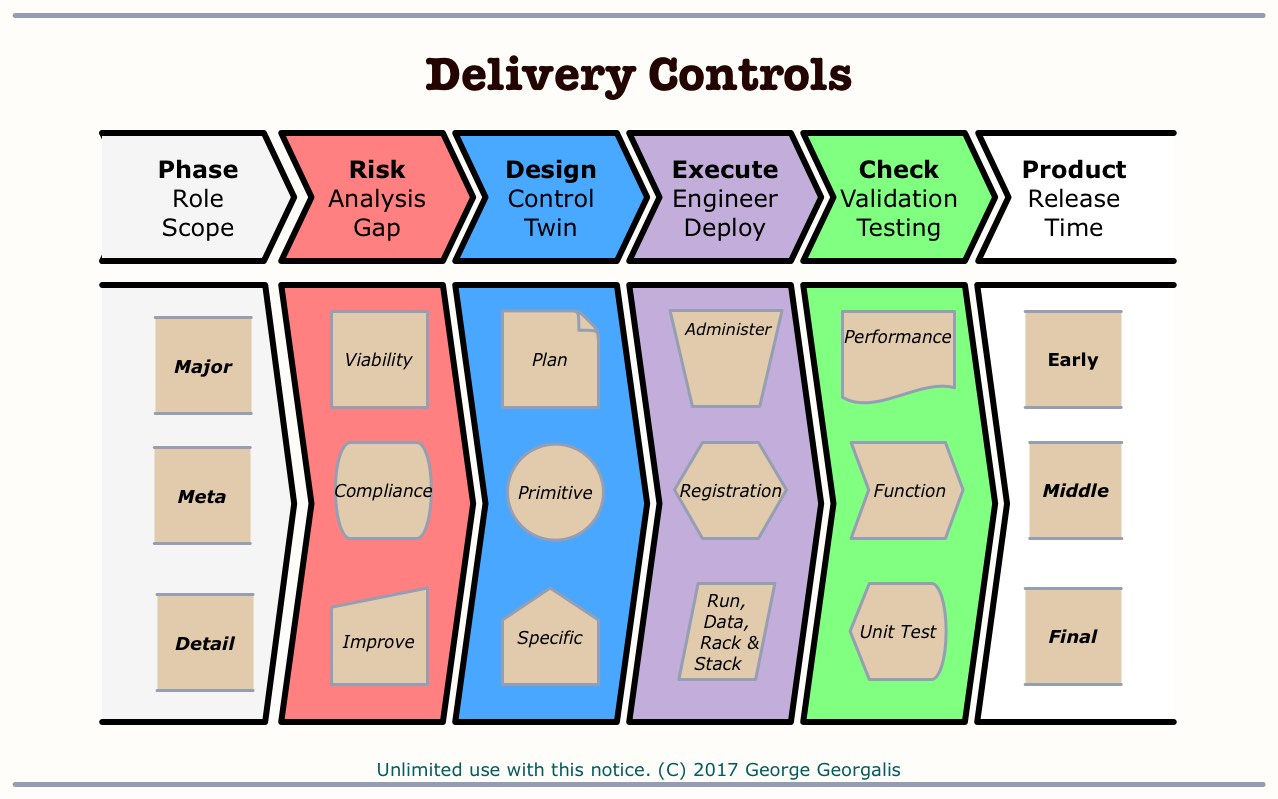
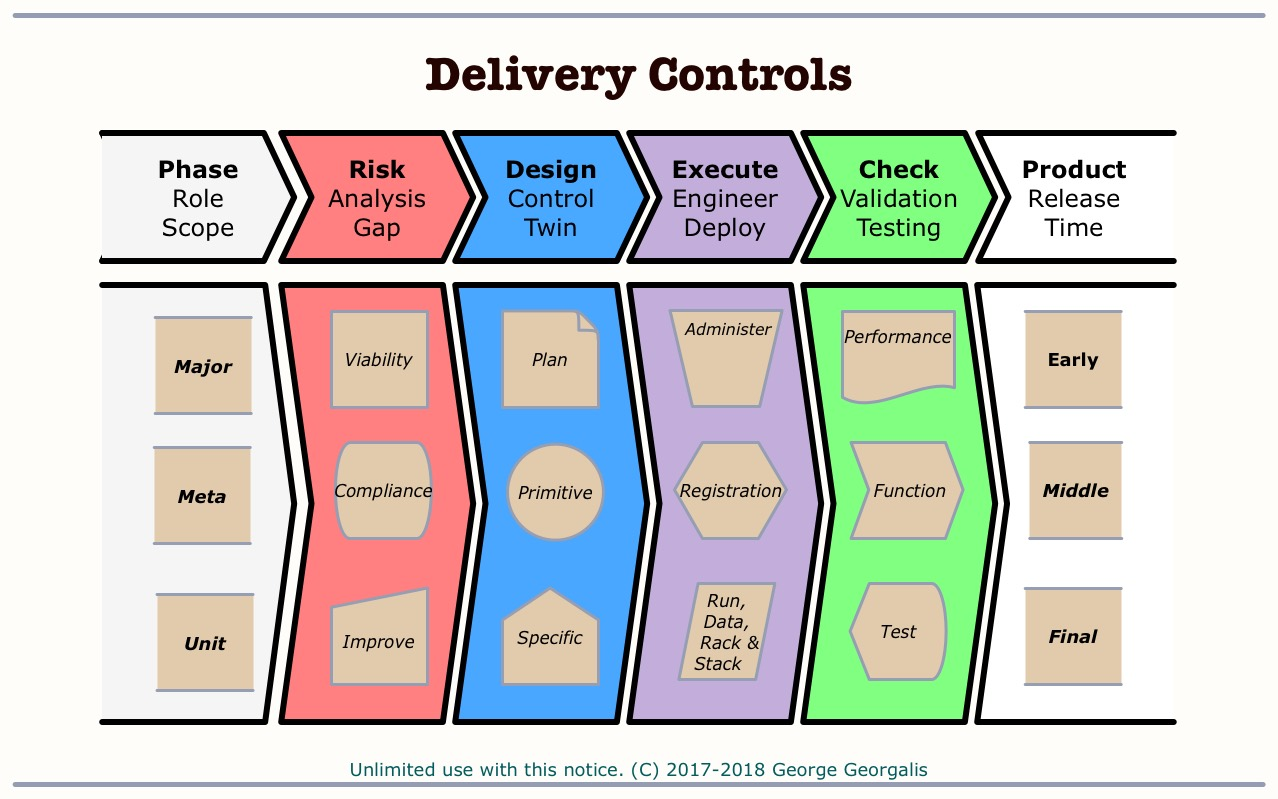
Design development.

Changed region(s): [[0.2746, 0.9312, 0.7324, 0.9912], [0.6714, 0.781, 0.7324, 0.811], [0.1221, 0.781, 0.1831, 0.811]]

diff --git a/readme.md b/readme.md
@@ -1,11 +1,27 @@
 # Felidae Information Flows 
 
 This repository is a work plan and source code product for
-Felidae information services.
+Felidae information services. http://www.felidaefund.org/
+
+A critical aspect of Felidae research is motion sensing, video
+and still cameras, placed in remote locations. Mountain lions,
+bobcats, owls, possum, deer, skunk, rats, rabbits and humans
+are captured; in addition to leaves rustling in the breeze and
+similar false triggers. Categorization and ratios of activities, in
+different locations, noninvasive measures the health and vitality
+of the ecology. But, the categorization of retrieved media is currently a
+labor and time intensive task, and a critical bottleneck for the
+research.
 
 This data flow scales and improves the existing Felidae camera trap to data report process.
 Automation is used to standardize formats and accelerate the pipeline wherever possible.
-Discrete components are designed to meet today's needs and adapt to future changing needs and scale.
+Modular, discrete components are designed to meet today's needs and remain flexable for future changing needs and scale.
+
+The key enhancements driving this information flow update are
+* Integration of [TensorFlow](http://www.tensorflow.org/) machine learning to auto categorize the images.
+* Metadata, schema, and flow standardization to facilitate [R Project](http://www.r-project.org) statistical analysis.
+* Data Query and Access simplification, to facilitate 3rd party research collaboration.
+* Improved backup pipeline for disaster recovery.
 
 ## Overview
 
@@ -21,6 +37,16 @@ Any number of Raspberry Pi class devices may be used with an expected to cost of
 
 ## Design
 ### Glossary
+Major
+Minor
+Unit
+Risk
+Plan
+Execution
+Check
+Early
+Middle
+Final
 
 ### Process
 Since this product is implemented and consumed primarily by
@@ -31,7 +57,7 @@ automated operations and deployment robustness will be applied.
 The general implementation pattern consists of four phases feeding
 each other in a continuous loop cycle: Risk Analysis, Planning,
 Execution and Quality Check. Three degrees of detail compose
-each phase: Major, Meta and Minor details. Likewise, the degrees
+each phase: Major, Meta and Unit components. Likewise, the degrees
 of development are expected to mature in Early, Middle and Final
 stages of the project refinement. 
 
@@ -45,45 +71,61 @@ https://github.com/georgalis/pub/blob/master/know/Operations.pdf
 
 ![Objective Improvement](plan/ObjectiveImprovement.jpg)
 
-* Major
-  * Viability (Risk)
-  * Twin (Design)
-  * Administer (Execute)
-  * Performance (Check)
-* Meta
-  * Compliance (Risk)
-  * Primitive (Design)
-  * Registration (Execute)
-  * Function (Check)
-* Detail
-  * Improve (Risk)
-  * Specification (design)
-  * Implementation (Execute)
-  * Test (Check)
+### Design Outline
+* Major - broad goals
+  * Viability (Risk) - key concerns
+  * Twin (Design) - overall storyboard
+  * Administer (Execute) - implementation report
+  * Performance (Check) - utility validation
+* Meta - Major to Unit translation
+  * Compliance (Risk) - Design to Implementation alignment
+  * Primitive (Design) - building blocks
+  * Registration (Execute) - names and components
+  * Function (Check) - design built check
+* Unit
+  * Improve (Risk) - identify gaps
+  * Specification (Design) - configuration and automation
+  * Implementation (Execute) - setup
+  * Test (Check) - confirm specification
 * Product
 
 ###  Major
-* waterfall
+New remote device connects to domestic internet and receives camera trap media, integrates with data entered through web interface and uploads to master. Master device receives remote device data, initiates backup, supports TensorFlow training, facilitates query and export.
+
+  
 ####  Viability (Risk)
-* Offsite backup - data disaster recovery
-* Instantiation - hardware disaster recovery
-* Diagnostic - event logs, repair table
-* Extendability - future flexability
-* Reliability - robust
-* Ease of use - low barrier use
+* Hardware Disaster Recovery
+* Data Disaster Recovery
+* Operational Diagnostic Tools
+* Future Flexability
+* Reliability
+* Ease of use
 * Implementation cost
 * Ongoing cost
 ####  Twin (Design)
-* Glacier - low cost disaster storage, 
-  * https://docs.aws.amazon.com/amazonglacier/latest/dev/introduction.html
-  * https://aws.amazon.com/glacier/pricing/
+* New remote device connects to domestic internet and receives camera trap media.
+  * Remote device auto transfers media data to local storage.
+  * Remote device presents field volunteer with web interface for media meta data entry.
+  * Remote device packages exif and meta data and auto categorizes media.
+  * Remote device presents media media by category or meta data query.
+  * Remote device accepts manual media categorization corrections and annotates media data.
+  * Remote device synchronizes data to master.
+  * Remote device reports workflow status.
+* New master device
+  * ...
+* Discrete Modular Components
+* Robust commodity hardware and software
+* Instantiation 
+* Offsite Backup
 * Data
   * Schema
   * Flows [Felidae-Flows](plan/Felidae-Flows.pdf)
   * Translation (old to new format)
-* Web interface - user zero install
+* Hardware autoconfiguration, minimal setup
+* Web interface - low barrier use, zero install
   * Workflows
   * Markup
+* event logs, repair table
 ####  Administer (Execute)
 ####  Performance (Check)
 ###  Meta
@@ -93,11 +135,18 @@ https://github.com/georgalis/pub/blob/master/know/Operations.pdf
 ####  Registration (Execute)
 * Requirement Traceability Matrix
 ####  Function (Check)
-###  Detail
+###  Unit
 ####  Improve (Risk)
 ####  Specification (design)
-* Requirements
+* Waterfall
+* Requirement Breakout
+* Glacier - low cost disaster storage, 
+  * https://docs.aws.amazon.com/amazonglacier/latest/dev/introduction.html
+  * https://aws.amazon.com/glacier/pricing/
 ####  Implementation (Execute)
+* Vendors
+* Bootstrap
+* Configuration Management
 ####  Test (Check)
 ###  Product
 
